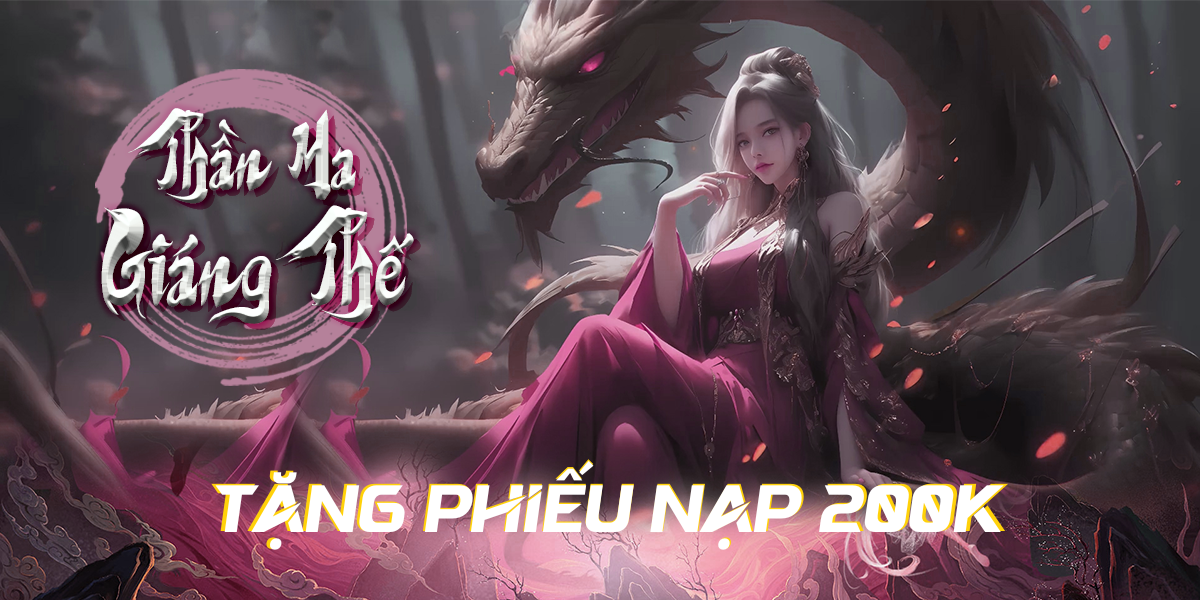
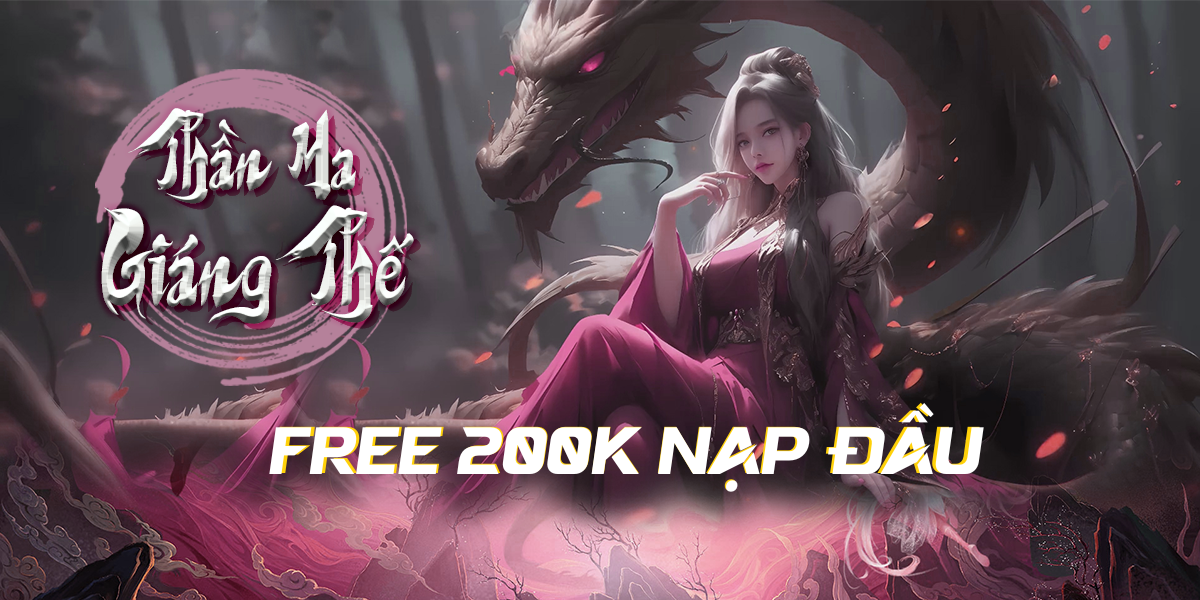
add game Thien Co Quyen 4D

Changed region(s): [[0.185, 0.66, 0.8325, 0.93]]

diff --git a/next/static/chunks/app/page-8872851b956d2833.js b/next/static/chunks/app/page-8872851b956d2833.js
@@ -44,7 +44,8 @@
                 data: [
                     { image: '/images/tmgt/tmgt-banner.png', link: 'https://new.yxtgym.com/y92.0l110/EdIf1XkalZCqknYO0sCRwA/Icch.html' },
                     { image: './images/ltg/ltg-banner.jpg', link: 'http://www.poopogame.com/url/wIveb7A6' },
-                    { image: './images/dvdl/dvdl-banner.jpg', link: 'http://www.poopogame.com/url/5JBLP9hD' }
+                    { image: './images/dvdl/dvdl-banner.jpg', link: 'http://www.poopogame.com/url/5JBLP9hD' },
+                    { image: './images/tcq4d/tcq4d-banner.jpg', link: '' }
                 ],
                 note: false // Hoặc true nếu muốn style khác cho pagination
             };
@@ -140,7 +141,7 @@
                 name: "Thần Ma Giáng Thế",
                 logoImage: "./images/tmgt/tmgt-logo.png",
                 type: 3,
-                gameType: { name: "game mới" },
+                gameType: { name: "game hot" },
                 href: "https://new.yxtgym.com/y92.0l110/EdIf1XkalZCqknYO0sCRwA/Icch.html"
             },
             {
@@ -169,10 +170,10 @@
             },
             {
                 id: 6,
-                name: "Loading......",
-                logoImage: "./images/loading.png",
+                name: "Thiên Cơ Quyền 4D",
+                logoImage: "./images/tcq4d/tcq4d-logo.jpg",
                 type: 3,
-                gameType: { name: "Sắp ra mắt" },
+                gameType: { name: "Game mới" },
                 href: ""
             }
             ];
@@ -195,8 +196,8 @@
                     totalGiftcode: 500,
                     totalReceived: 412,
                     type: 2,
-                    text: "Nhận phiếu nạp 200k game Thần Ma Giáng Thế",
-                    value: "Nhận phiếu nạp 200k",
+                    text: "Nhận Free 200k nạp đầu game Thần Ma Giáng Thế",
+                    value: "Nhận free 200k nạp đầu",
                 },
                 {
                     id: 3,
@@ -226,6 +227,16 @@
                     totalReceived: 124,
                     type: 5,
                     text: "Nhận code game Ethereal Slayer",
+                    value: "Nhận code",
+                },
+                {
+                    id: 5,
+                    name: "Thiên Cơ Quyền 4D",
+                    image: "./images/tcq4d/tcq4d-logo.jpg",
+                    totalGiftcode: 200,
+                    totalReceived: 54,
+                    type: 6,
+                    text: "Nhận code game Thiên Cơ Quyền 4D",
                     value: "Nhận code",
                 }
 
@@ -294,6 +305,15 @@
                 image: "./images/es/es-banner.jpg",
                 tag: [
                     { id: "tag5", name: "15-09-2025" }
+                ],
+                href: "https://app.adjust.com/1sokpzx5"
+            },
+            {
+                id: 6,
+                title: "Thiên Cơ Quyền 4D - Khai mở server lúc 00:10' Thứ 3 & 7 hàng tuần",
+                image: "./images/tcq4d/tcq4d-banner.jpg",
+                tag: [
+                    { id: "tag6", name: "06-10-2025" }
                 ],
                 href: "https://app.adjust.com/1sokpzx5"
             }

diff --git a/index.html b/index.html
@@ -333,7 +333,7 @@
                             <div class="img"><img alt="" src="./images/tmgt/tmgt-logo.png"></div>
                             <div class="desc">
                                 <h3 class="text-cover title-product ">Thần Ma Giáng Thế</h3>
-                                <p>Game MỚI</p>
+                                <p>Game HOT</p>
                             </div>
                         </a>
                         <a class="item " href="#">
@@ -358,10 +358,10 @@
                             </div>
                         </a>
                         <a class="item " href="#">
-                            <div class="img"><img alt="" src="./images/es/es-logo.jpg"></div>
+                            <div class="img"><img alt="" src="./images/tcq4d/tcq4d-logo.jpg"></div>
                             <div class="desc">
-                                <h3 class="text-cover title-product ">Loading......</h3>
-                                <p>Sắp ra mắt</p>
+                                <h3 class="text-cover title-product ">Thiên Cơ Quyền 4D</h3>
+                                <p>Game mới</p>
                             </div>
                         </a>
                     </div>
@@ -423,7 +423,7 @@
                                 <div class="detail">
                                     <h2>Thần Ma Giáng Thế</h2>
                                     <p>Giftcode: 500</p>
-                                    <p>Người nhận: 412</p><button class="btn">Nhận phiếu nạp 200k</button>
+                                    <p>Người nhận: 412</p><button class="btn">Nhận free 200k nạp đầu</button>
                                 </div>
                             </a></div>
                         <div class="col-12 col-sm-6"><a class="item d-flex"
@@ -532,6 +532,19 @@
                                         skills, and epic realms to explore.</p>
                                     <div class="d-flex gap-2 flex-wrap mt-2"><span
                                             class="news-item-info">15-09-2025</span>
+                                    </div>
+                                </div>
+                            </div>
+                        </div>
+                        <div class="col-sm-6 mb-3" style="cursor: pointer;">
+                            <div class="overflow-hidden news-item">
+                                <div class="news-item-image"><img
+                                        alt="Thiên Cơ Quyền 4D - Khai mở server lúc 00:10' Thứ 3 & 7 hàng tuần"
+                                        src="./images/tcq4d/tcq4d-banner.jpg"></div>
+                                <div class="news-item-content">
+                                    <p>Thiên Cơ Quyền 4D - Khai mở server lúc 00:10' Thứ 3 & 7 hàng tuần</p>
+                                    <div class="d-flex gap-2 flex-wrap mt-2"><span
+                                            class="news-item-info">06-10-2025</span>
                                     </div>
                                 </div>
                             </div>
